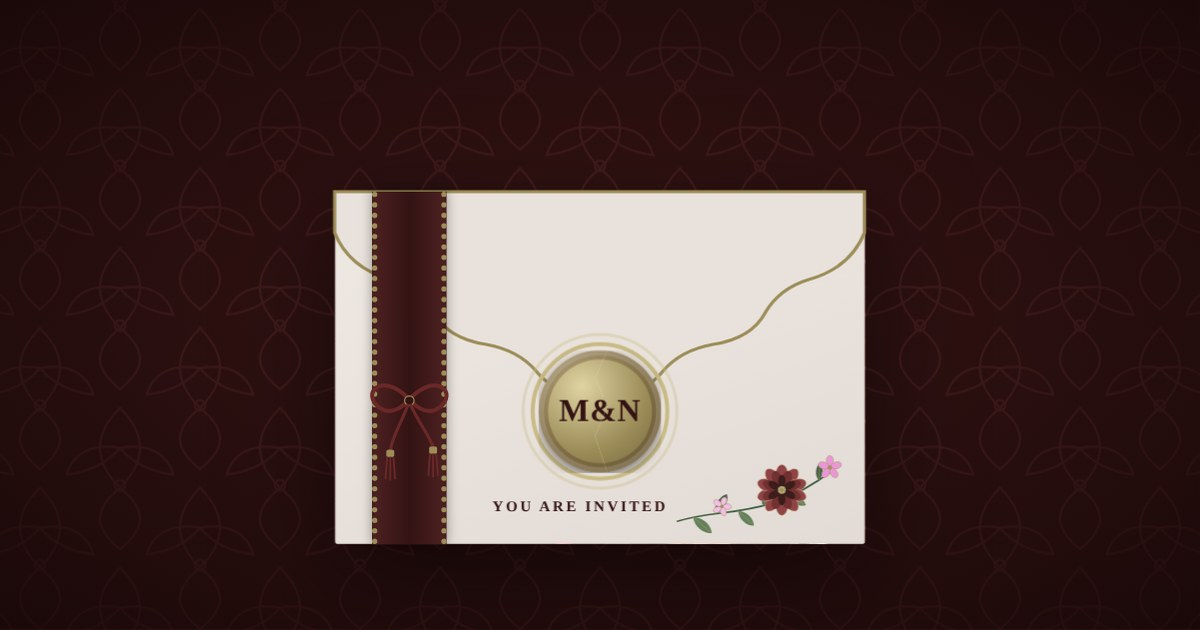
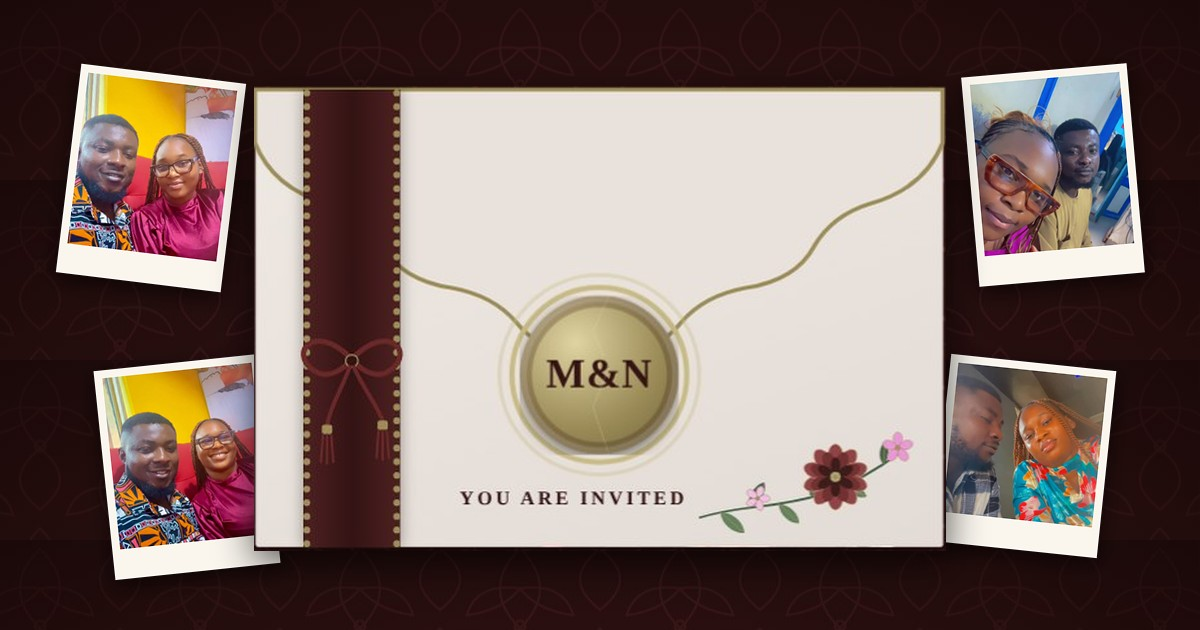
add the webiste

diff --git a/script.js b/script.js
@@ -115,11 +115,11 @@ const CONFIG = {
     ['Groom’s Outfit', 'AB Dozzy Fashion Home'],
     ['Entertainment', 'DJ Kellyfan'],
     ['Master of Ceremony', 'The Anchor DMC'],
-    ['Website Design', 'G.O.C | Brand Strategist × AI']      // developer credit (last item)
+    ['Website Design', 'G.O.C | Brand Strategist × AI', 'https://wa.me/2348027134537?text=' + encodeURIComponent('Hello! I saw the Miracle & Newman wedding website and I would love one for my wedding.')]      // developer credit (last item)
   ],
   developer: {
     name: 'G.O.C | Brand Strategist × AI',
-    whatsapp: ''             // G.O.C WhatsApp number, international format, no +. Button stays hidden until filled.
+    whatsapp: '2348027134537'  // G.O.C WhatsApp number, international format, no +. Button stays hidden until filled.
   },
   footer: { thanks: 'Thank you for celebrating with us. Your love, prayers and presence mean the world to us.' },
   share: 'You are invited to celebrate the union of Miracle & Newman, Monday, 4th January 2027. #NewMiracle2027',
@@ -387,7 +387,7 @@ window.WEDDING_CONFIG = CONFIG;
   });
 
   /* ---------- vendors ---------- */
-  $('#vendorList').innerHTML = C.vendors.map(function (v) { return '<li><span>' + esc(v[0]) + '</span><b>' + esc(v[1]) + '</b></li>'; }).join('');
+  $('#vendorList').innerHTML = C.vendors.map(function (v) { return '<li><span>' + esc(v[0]) + '</span><b>' + (v[2] ? '<a class="v-link" target="_blank" rel="noopener" href="' + esc(v[2]) + '">' + esc(v[1]) + '</a>' : esc(v[1])) + '</b></li>'; }).join('');
 
   /* ---------- gifts: copy account number ---------- */
   $('#copyAcc').addEventListener('click', function () {

diff --git a/styles.css b/styles.css
@@ -379,3 +379,6 @@ html:not(.js) .sound, html:not(.js) .intro { display: none; }
   .lb-p { left: 28px; } .lb-n { right: 28px; }
   @media (min-width: 1500px) { .masonry { columns: 5; } }
 }
+
+.vendor-list .v-link { color: inherit; text-decoration: underline; text-decoration-color: var(--goldl); text-underline-offset: 4px; }
+.vendor-list .v-link:hover { color: var(--goldl); }
